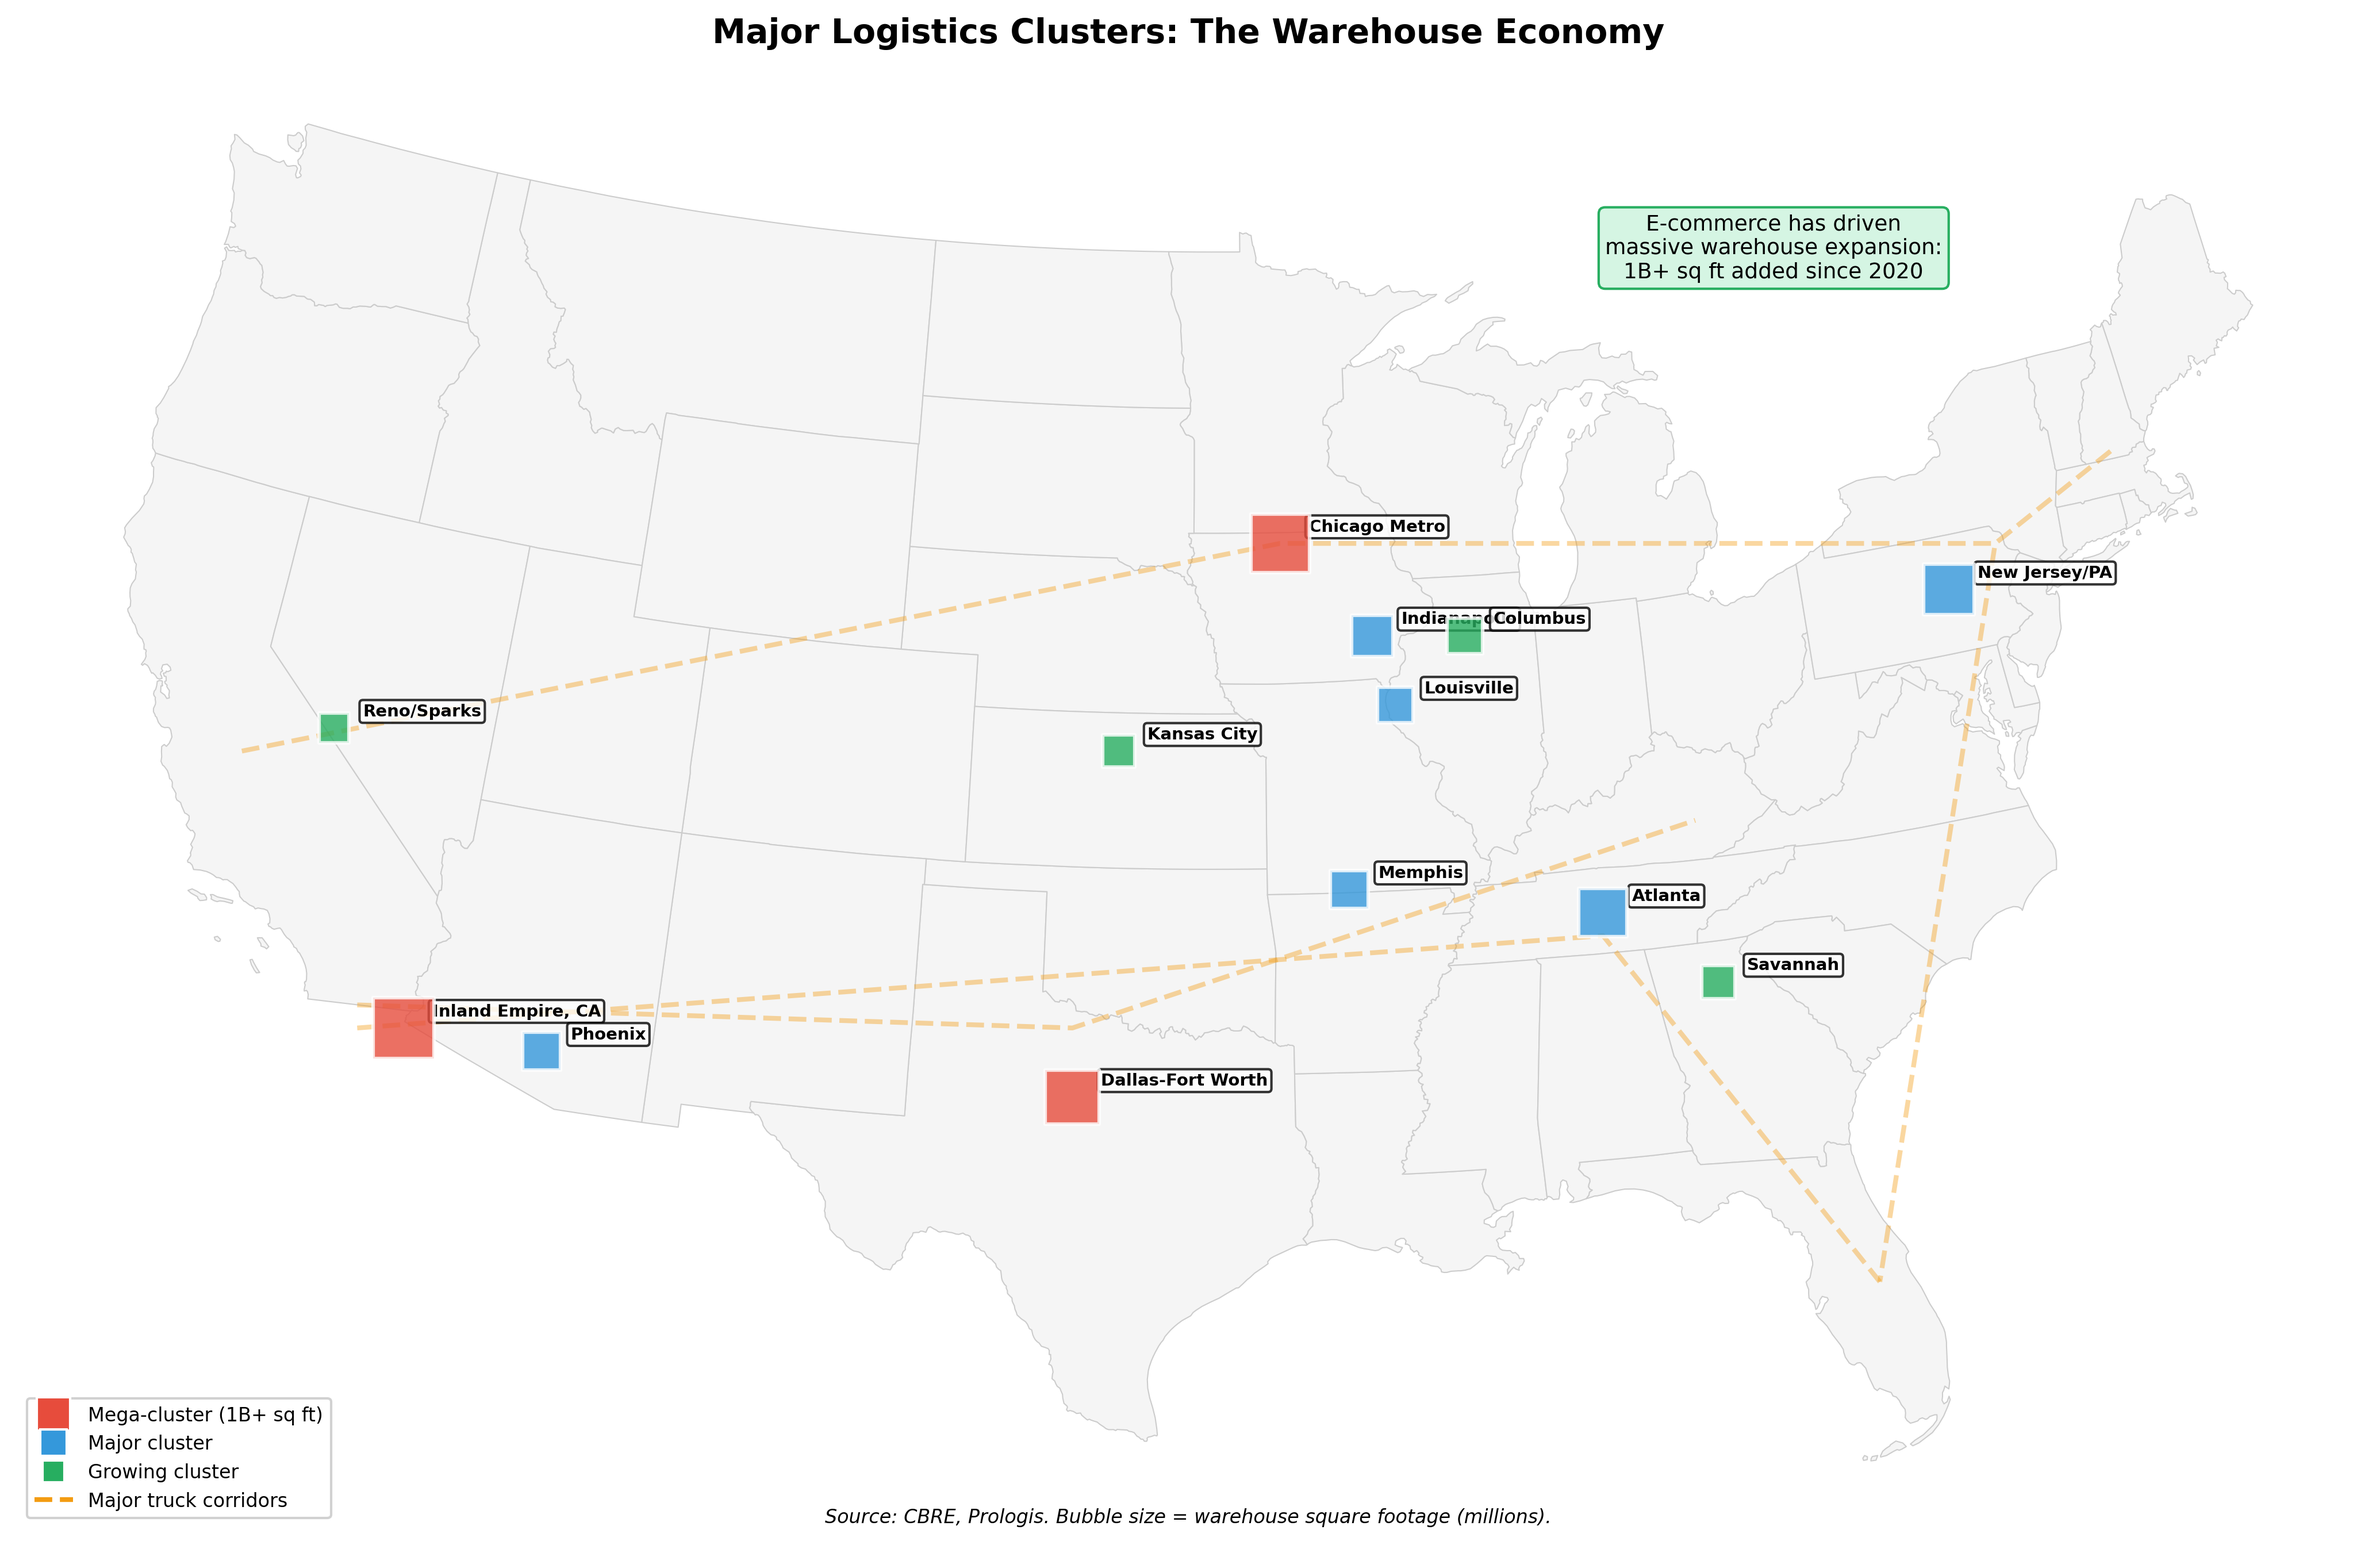
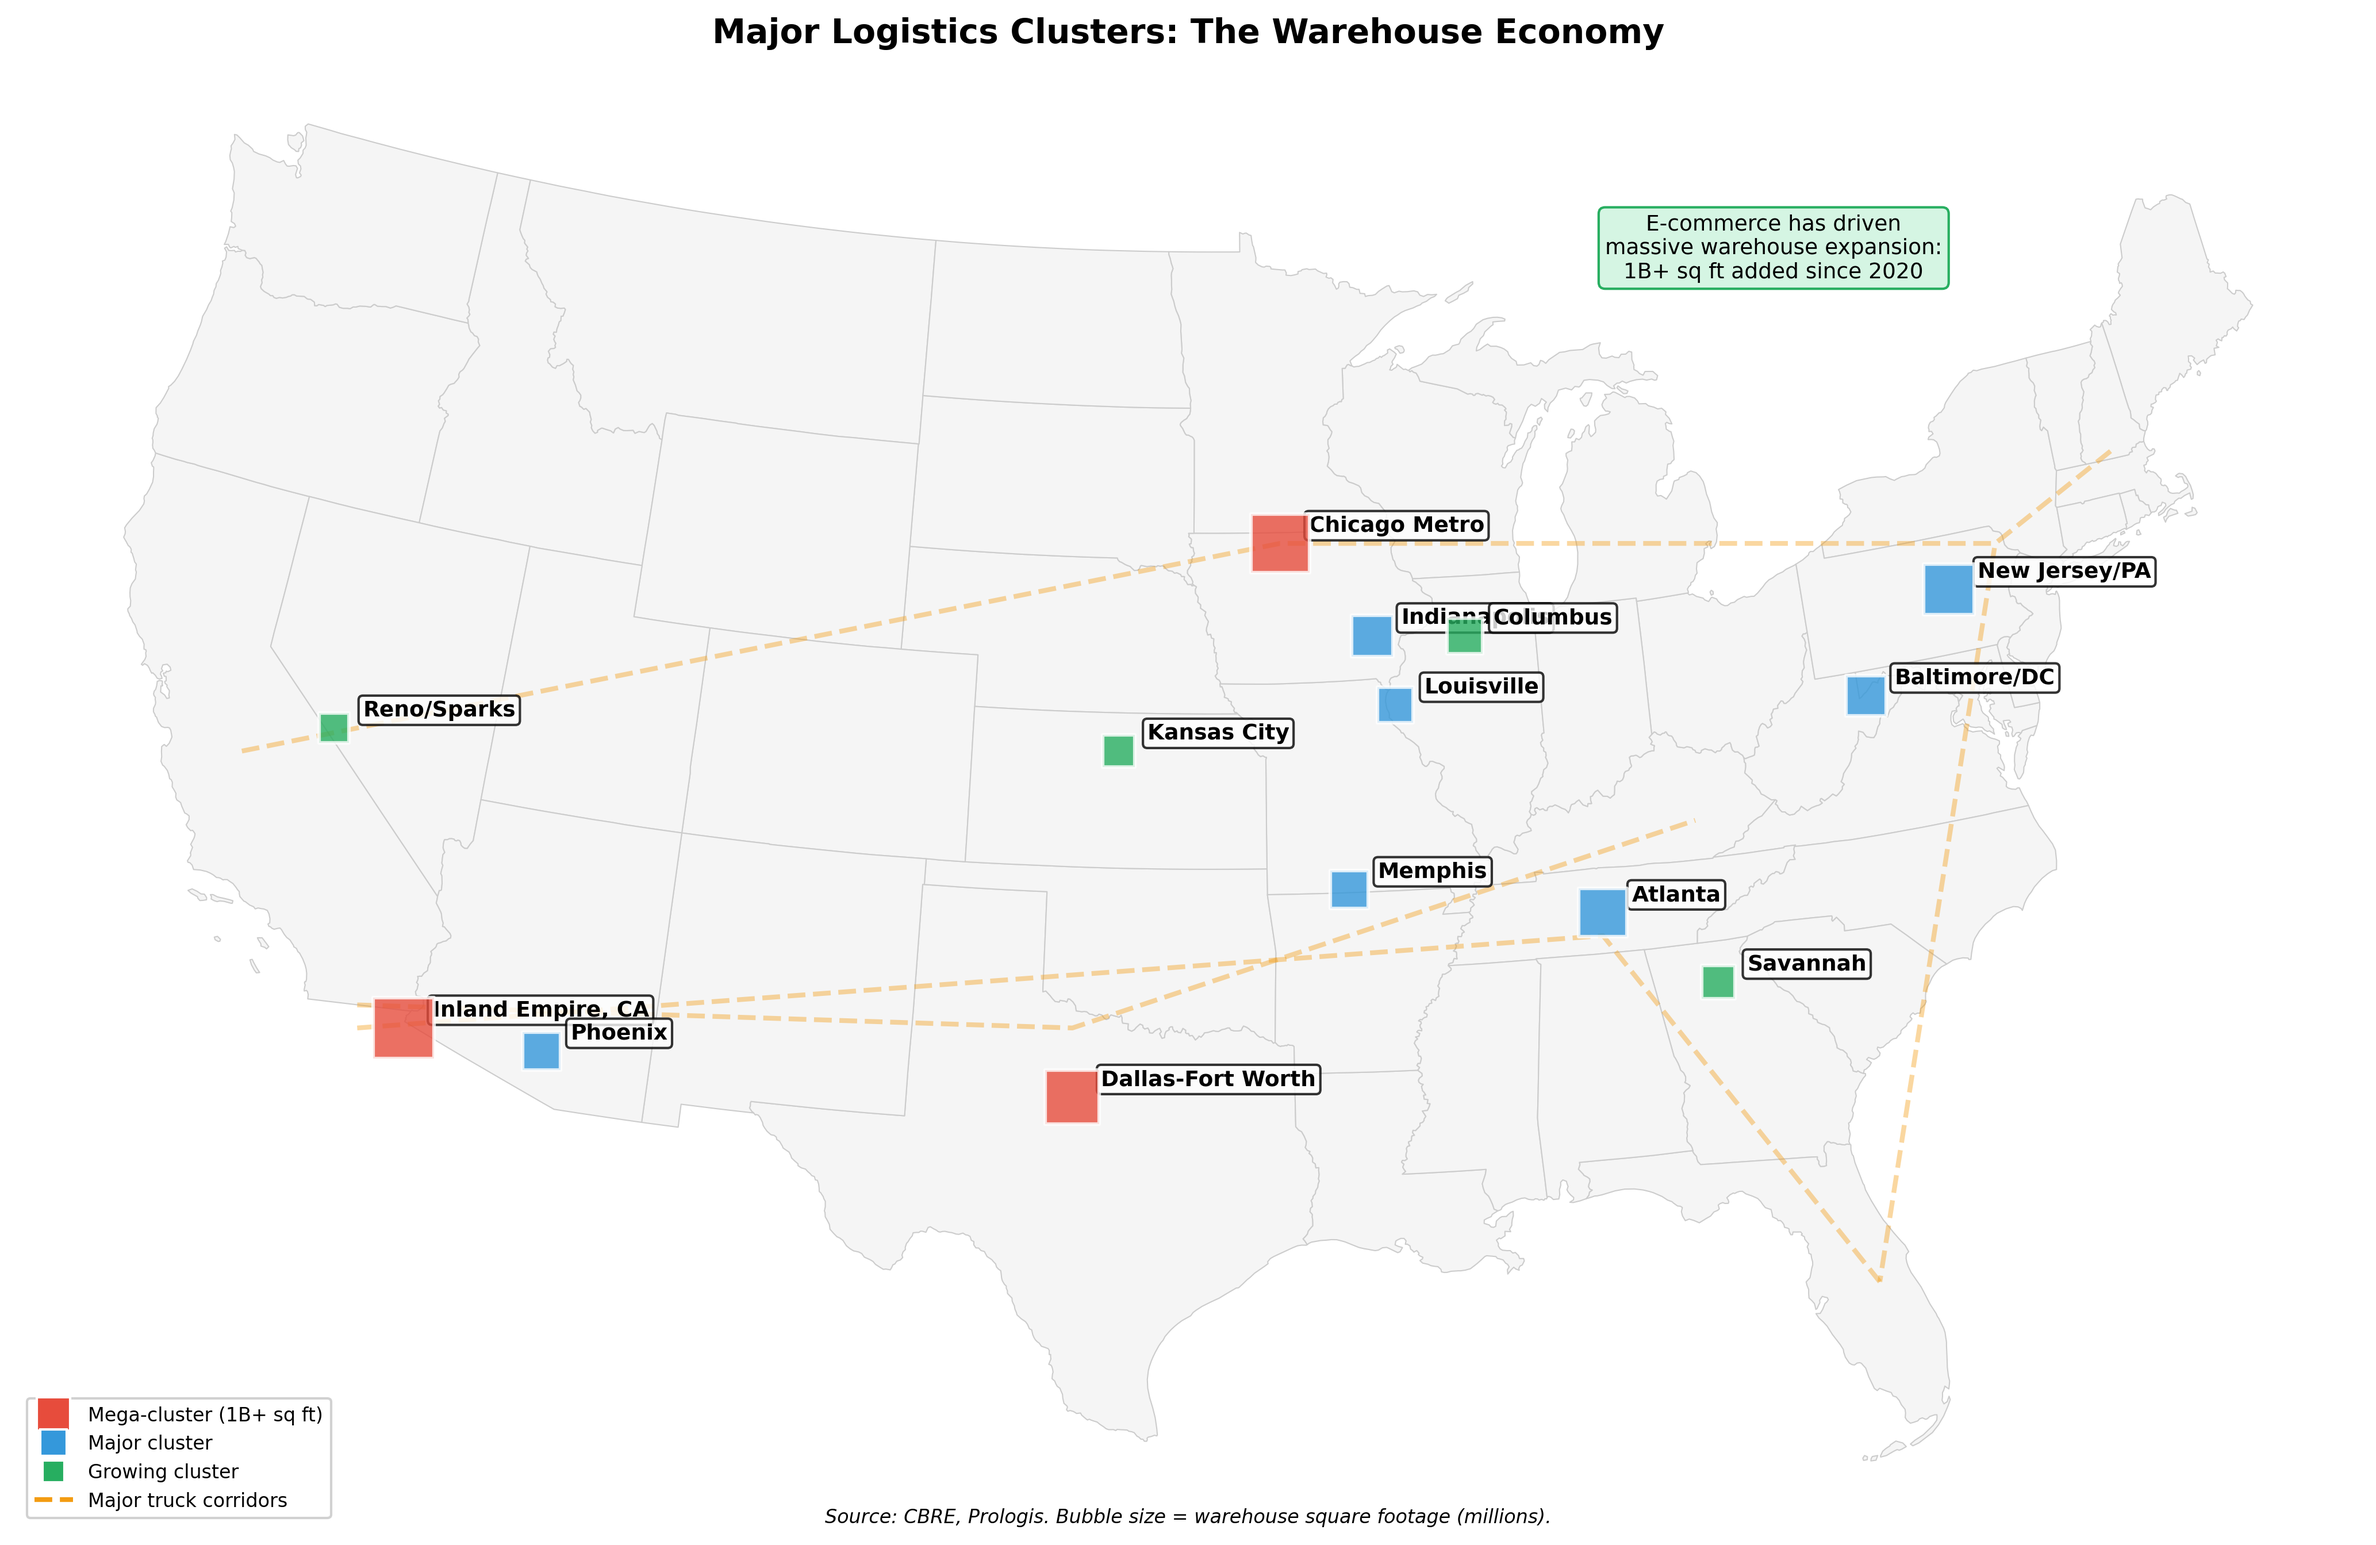
Fix figure duplications, ch12 numbering, and map improvements
Fixes:
- Remove duplicate Figure 1.1 in ch01
- Remove duplicate Figure 30.1 in ch30 (add interactive link to original)
- Fix ch12 figure numbering (was 12.1, 12.3, 12.2, 12.3... now sequential 12.1-12.11)

Map improvements:
- Increase label font sizes on port, airline hub, and logistics maps (7pt -> 9pt)
- Add Baltimore/DC warehouse cluster to logistics map

diff --git a/book/part2/ch12-transportation.md b/book/part2/ch12-transportation.md
@@ -35,7 +35,7 @@ Intermodal freight---containers that move by multiple modes---has grown from a c
 
 <figure>
 <img src="../_figures/ch12/ch12_freight_network.png" alt="U.S. freight network map" style="width: 100%; max-width: 800px;">
-<figcaption>Figure 12.3: The U.S. freight skeleton. Major rail corridors (Class I railroads), interstate highways, and container ports form the physical infrastructure of American commerce. Chicago serves as the critical hub where eastern and western rail networks meet. Source: STB, DOT</figcaption>
+<figcaption>Figure 12.2: The U.S. freight skeleton. Major rail corridors (Class I railroads), interstate highways, and container ports form the physical infrastructure of American commerce. Chicago serves as the critical hub where eastern and western rail networks meet. Source: STB, DOT</figcaption>
 </figure>
 
 ## Trucking: The Dominant Mode
@@ -67,7 +67,7 @@ The trucking industry divides into distinct segments:
 
 <figure>
 <img src="../_figures/ch12/ch12_top_trucking.png" alt="Top trucking companies" style="width: 100%; max-width: 800px;">
-<figcaption>Figure 12.2: Top trucking companies by revenue. UPS and FedEx dominate through their integrated parcel networks. Source: Company data (2023)</figcaption>
+<figcaption>Figure 12.3: Top trucking companies by revenue. UPS and FedEx dominate through their integrated parcel networks. Source: Company data (2023)</figcaption>
 </figure>
 
 ### The Driver Shortage
@@ -103,12 +103,12 @@ Only seven "Class I" railroads (those with over $500 million in annual revenue) 
 
 <figure>
 <img src="../_figures/ch12/ch12_class_i_railroads.png" alt="Class I railroads revenue" style="width: 100%; max-width: 800px;">
-<figcaption>Figure 12.3: Class I railroad revenue. Union Pacific and BNSF (Berkshire) dominate the West; CSX and Norfolk Southern split the East. Source: AAR (2023)</figcaption>
+<figcaption>Figure 12.4: Class I railroad revenue. Union Pacific and BNSF (Berkshire) dominate the West; CSX and Norfolk Southern split the East. Source: AAR (2023)</figcaption>
 </figure>
 
 <figure>
 <img src="../_figures/ch12/ch12_railroad_map.png" alt="Class I railroad territories" style="width: 100%; max-width: 800px;">
-<figcaption>Figure 12.4: Class I railroad territories. The western duopoly (Union Pacific, BNSF) and eastern duopoly (CSX, Norfolk Southern) divide the country roughly at the Mississippi River. Chicago serves as the critical interchange point. Source: STB (2023)</figcaption>
+<figcaption>Figure 12.5: Class I railroad territories. The western duopoly (Union Pacific, BNSF) and eastern duopoly (CSX, Norfolk Southern) divide the country roughly at the Mississippi River. Chicago serves as the critical interchange point. Source: STB (2023)</figcaption>
 </figure>
 
 The Canadian carriers (Canadian National and Canadian Pacific Kansas City) also operate extensively in the US, and Kansas City Southern (now part of CPKC) provides the main rail link to Mexico.
@@ -138,12 +138,12 @@ The airline industry that deregulation created in 1978 has consolidated into a s
 
 <figure>
 <img src="../_figures/ch12/ch12_airline_market_share.png" alt="Airline market share" style="width: 100%; max-width: 800px;">
-<figcaption>Figure 12.5: Domestic airline market share. The Big Four control roughly 70% of passengers after decades of consolidation. Source: DOT (2024)</figcaption>
+<figcaption>Figure 12.6: Domestic airline market share. The Big Four control roughly 70% of passengers after decades of consolidation. Source: DOT (2024)</figcaption>
 </figure>
 
 <figure>
 <img src="../_figures/ch12/ch12_airline_hubs.png" alt="Major airline hubs" style="width: 100%; max-width: 800px;">
-<figcaption>Figure 12.6: Major airline hub locations. Delta (blue) dominates Atlanta; American (red) hubs in Dallas and Charlotte; United (navy) in Chicago and Denver; Southwest (orange) operates point-to-point from multiple cities. Source: DOT (2024)</figcaption>
+<figcaption>Figure 12.7: Major airline hub locations. Delta (blue) dominates Atlanta; American (red) hubs in Dallas and Charlotte; United (navy) in Chicago and Denver; Southwest (orange) operates point-to-point from multiple cities. Source: DOT (2024)</figcaption>
 </figure>
 
 The Big Four emerged from a wave of mergers: Delta absorbed Northwest (2008), United merged with Continental (2010), Southwest acquired AirTran (2011), and American combined with US Airways (2013). The result is a mature industry with disciplined capacity management and consistent profitability---a stark contrast to the boom-bust cycles of the 1990s and 2000s.
@@ -176,7 +176,7 @@ America's seaports are the gateways for international trade. Container ports han
 
 <figure>
 <img src="../_figures/ch12/ch12_top_ports.png" alt="Top container ports" style="width: 100%; max-width: 800px;">
-<figcaption>Figure 12.7: Top U.S. container ports by TEUs. Los Angeles-Long Beach dominates trans-Pacific trade; Savannah has gained share since the 2021 congestion crisis. Source: AAPA (2023)</figcaption>
+<figcaption>Figure 12.8: Top U.S. container ports by TEUs. Los Angeles-Long Beach dominates trans-Pacific trade; Savannah has gained share since the 2021 congestion crisis. Source: AAPA (2023)</figcaption>
 </figure>
 
 The San Pedro Bay ports (Los Angeles and Long Beach) together form the nation's largest port complex, handling about 40% of containerized imports. Their dominance reflects proximity to Asia---the great circle route from Shanghai to LA is several days shorter than to East Coast ports via the Panama Canal.
@@ -185,7 +185,7 @@ The 2021-2022 port congestion crisis exposed the fragility of this concentration
 
 <figure>
 <img src="../_figures/ch12/ch12_port_map.png" alt="Major U.S. seaports" style="width: 100%; max-width: 800px;">
-<figcaption>Figure 12.8: Major U.S. seaports. Container ports (red squares) cluster on coasts, with LA/Long Beach dominating Pacific trade. Bulk ports (blue triangles) along the Gulf handle grain and energy exports. Source: AAPA (2023)</figcaption>
+<figcaption>Figure 12.9: Major U.S. seaports. Container ports (red squares) cluster on coasts, with LA/Long Beach dominating Pacific trade. Bulk ports (blue triangles) along the Gulf handle grain and energy exports. Source: AAPA (2023)</figcaption>
 </figure>
 
 ### The Jones Act
@@ -224,7 +224,7 @@ American freight flows along predictable corridors shaped by population, ports, 
 
 <figure>
 <img src="../_figures/ch12/ch12_logistics_map.png" alt="Logistics corridors map" style="width: 100%; max-width: 800px;">
-<figcaption>Figure 12.9: Major freight corridors. Interstate highways, rail mainlines, and ports form an interconnected network with Chicago at the center. Source: BTS</figcaption>
+<figcaption>Figure 12.10: Major freight corridors. Interstate highways, rail mainlines, and ports form an interconnected network with Chicago at the center. Source: BTS</figcaption>
 </figure>
 
 **East-West Trunk Routes:** I-80 and I-90 form the primary cross-country truck corridors, paralleled by Union Pacific and BNSF rail lines. These routes connect West Coast ports to Midwest distribution centers and Eastern markets.
@@ -243,7 +243,7 @@ American freight flows along predictable corridors shaped by population, ports, 
 
 <figure>
 <img src="../_figures/ch12/ch12_logistics_clusters.png" alt="Major logistics clusters" style="width: 100%; max-width: 800px;">
-<figcaption>Figure 12.10: Major logistics and warehouse clusters. The Inland Empire dominates as the gateway for trans-Pacific imports; Memphis, Dallas-Fort Worth, and Atlanta serve as major regional distribution hubs. Source: CBRE Industrial Report (2023)</figcaption>
+<figcaption>Figure 12.11: Major logistics and warehouse clusters. The Inland Empire dominates as the gateway for trans-Pacific imports; Memphis, Dallas-Fort Worth, and Atlanta serve as major regional distribution hubs. Source: CBRE Industrial Report (2023)</figcaption>
 </figure>
 
 ## Regulation and Policy

diff --git a/book/part7/ch30-shock-transmission.md b/book/part7/ch30-shock-transmission.md
@@ -10,7 +10,7 @@ Economic shocks transmit through multiple channels simultaneously. Understanding
 
 <figure>
 <img src="../_figures/ch30/ch30_transmission_channels.png" alt="Shock transmission channels" style="width: 100%; max-width: 800px;">
-<figcaption>Figure 30.1: The four primary channels through which economic shocks propagate: input-output linkages (supply chain cascades), financial channels (credit and balance sheets), labor markets (jobs, wages, migration), and geographic transmission (regional concentration). Source: Author illustration</figcaption>
+<figcaption>Figure 30.1: The four primary channels through which economic shocks propagate: input-output linkages (supply chain cascades), financial channels (credit and balance sheets), labor markets (jobs, wages, migration), and geographic transmission (regional concentration). <a href="https://laurencehw.github.io/the-american-economy/book/_interactive/shock-propagation.html" target="_blank">View interactive version</a>. Source: Author illustration</figcaption>
 </figure>
 
 ### Input-Output Linkages: The Production Network
@@ -65,11 +65,6 @@ Shocks unfold over multiple time horizons:
 **Long-run effects** (5+ years): Some shocks leave permanent marks—"hysteresis" in the jargon. Communities that lose their economic base may never recover. Workers who exit the labor force may never return. The China shock's effects on manufacturing communities are still visible 20 years later.
 
 ## Case Study: The 2014-2016 Oil Price Collapse
-
-<figure>
-<img src="../_figures/ch30/ch30_transmission_channels.png" alt="Economic shock transmission channels" style="width: 100%; max-width: 800px;">
-<figcaption>Figure 30.1: How economic shocks propagate through the economy. Shocks transmit through trade linkages, financial channels, and labor markets, with effects cascading across sectors and regions. <a href="https://laurencehw.github.io/the-american-economy/book/_interactive/shock-propagation.html" target="_blank">View interactive version</a>. Source: Author illustration</figcaption>
-</figure>
 
 The oil price collapse of 2014-2016 illustrates every transmission channel in action. Tracing it in detail shows how the economy's structure shapes shock propagation.
 

diff --git a/book/part1/ch01-economy-in-numbers.md b/book/part1/ch01-economy-in-numbers.md
@@ -60,11 +60,6 @@ Several patterns stand out:
 
 <figure>
 <img src="../_figures/ch01/ch01_gdp_treemap.png" alt="GDP composition by industry" style="width: 100%; max-width: 800px;">
-<figcaption>Figure 1.1: GDP composition by industry. Professional services, real estate, and government together account for more than a third of U.S. economic output. Source: BEA (2023)</figcaption>
-</figure>
-
-<figure>
-<img src="../_figures/ch01/ch01_gdp_treemap.png" alt="GDP composition by industry" style="width: 100%; max-width: 800px;">
 <figcaption>Figure 1.1: U.S. GDP composition by industry (2023). Services dominate, with professional services, real estate, and government each exceeding manufacturing. <a href="https://laurencehw.github.io/the-american-economy/book/_interactive/gdp-treemap.html" target="_blank">View interactive version</a>. Source: BEA</figcaption>
 </figure>
 
